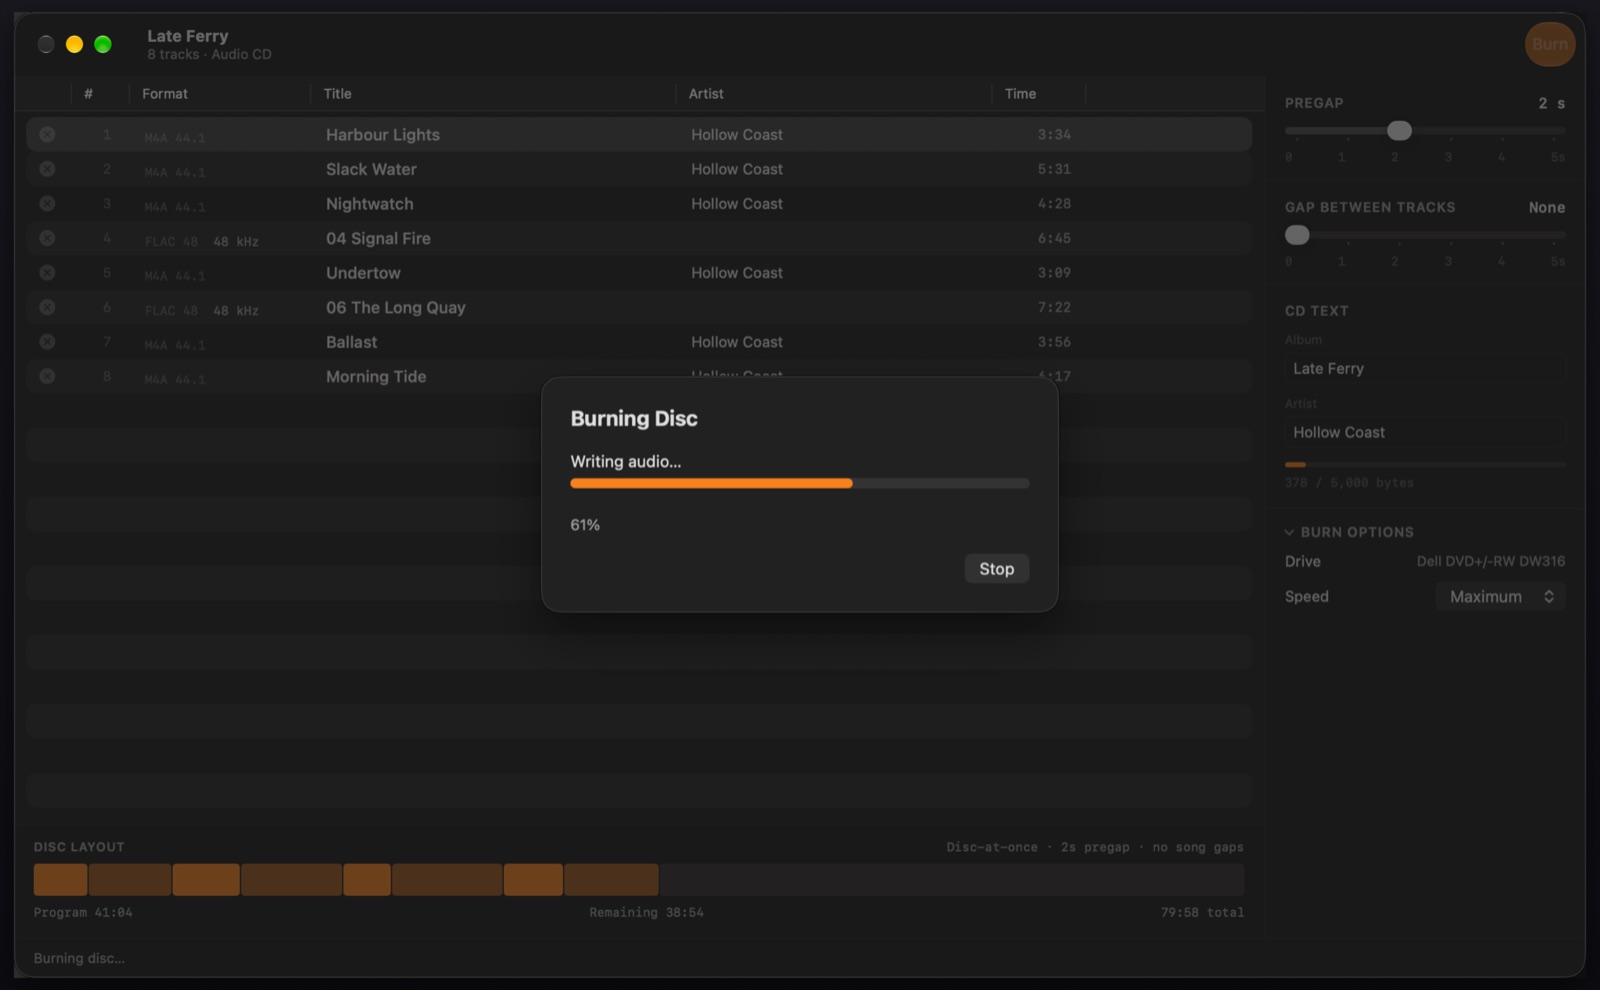
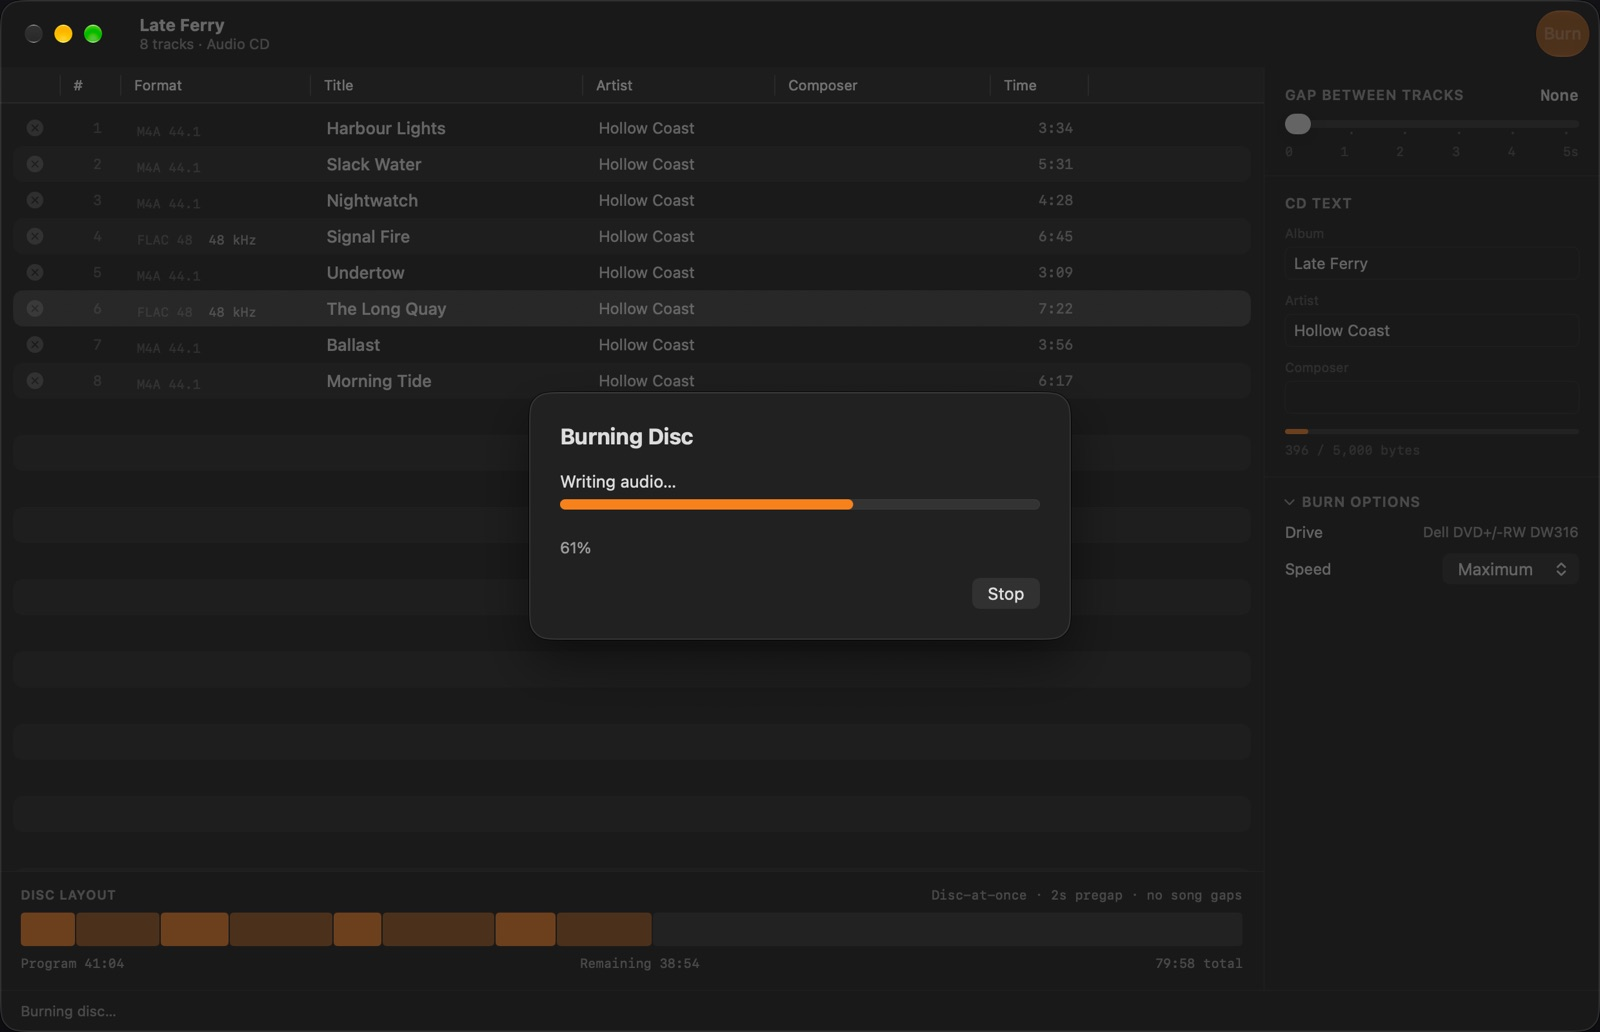
Publish site from pregap ba033e8

diff --git a/gapless-audio-cd-mac.html b/gapless-audio-cd-mac.html
@@ -13,7 +13,7 @@
 <meta property="og:description" content="Burn mixes, live albums and continuous records to audio CD on a Mac with no silence between tracks: disc-at-once, zero pregaps, and the right source files.">
 <meta property="og:image" content="https://pregap.app/img/rename.jpg">
 <meta property="og:image:width" content="1600">
-<meta property="og:image:height" content="990">
+<meta property="og:image:height" content="1032">
 <meta name="twitter:card" content="summary_large_image">
 <link rel="icon" href="favicon.png">
 <link rel="apple-touch-icon" href="apple-touch-icon.png">
@@ -73,14 +73,13 @@ Nearly every USB burner made in the last twenty years can write disc-at-once.</p
     <li><strong>Burn.</strong> Preflight checks the drive, the disc and every file before
         anything is written.</li>
 </ol>
-<p class="meta">The <strong>Pregap</strong> slider is the run-up before track 1, two seconds
-by default as the standard expects. It comes before the music starts, so you never
-hear it as a gap.</p>
+<p class="meta">Pregap always puts the standard two seconds before track 1. They come
+before the music starts, so you never hear them as a gap.</p>
 
 <figure class="guide-shot narrow">
-    <img src="img/guide-gaps.jpg" width="516" height="335" loading="lazy"
-         alt="Pregap's gap controls: the Pregap slider at 2 seconds, and the Gap Between Tracks slider at None.">
-    <figcaption><strong>Pregap</strong> sets the run-up before track 1. <strong>Gap Between Tracks</strong> at None means no silence between any tracks.</figcaption>
+    <img src="img/guide-gaps.jpg" width="516" height="168" loading="lazy"
+         alt="The Gap Between Tracks slider, set to None.">
+    <figcaption><strong>Gap Between Tracks</strong> at None means no silence between any tracks.</figcaption>
 </figure>
 
 <figure class="guide-shot">

diff --git a/index.html b/index.html
@@ -13,7 +13,7 @@
 <meta property="og:description" content="The audio CD burner your Mac should have shipped with. Gapless disc-at-once burns and CD-Text for CDJs, car stereos and hi-fi.">
 <meta property="og:image" content="https://pregap.app/img/rename.jpg">
 <meta property="og:image:width" content="1600">
-<meta property="og:image:height" content="990">
+<meta property="og:image:height" content="1032">
 <meta name="twitter:card" content="summary_large_image">
 <link rel="icon" href="favicon.png">
 <link rel="apple-touch-icon" href="apple-touch-icon.png">
@@ -41,8 +41,8 @@
 </section>
 
 <figure class="shot">
-    <img src="img/rename.jpg" width="1600" height="990"
-         alt="Pregap's window with an eight-track album. Track 4's title is being renamed in place, from “04 Signal Fire” to “Signal Fire”; alongside are the pregap and gap controls, CD-Text, and the disc layout bar.">
+    <img src="img/rename.jpg" width="1600" height="1032"
+         alt="Pregap's window with an eight-track album. Track 4's title is being renamed in place, from “04 Signal Fire” to “Signal Fire”; alongside are the gap control, CD-Text, and the disc layout bar.">
 </figure>
 
 <section class="points">
@@ -64,7 +64,7 @@
 </section>
 
 <figure class="shot">
-    <img src="img/burning.jpg" width="1600" height="990" loading="lazy"
+    <img src="img/burning.jpg" width="1600" height="1032" loading="lazy"
          alt="Pregap burning the album: a progress sheet reading Writing audio, 61%.">
 </figure>
 

diff --git a/gaps-between-tracks.html b/gaps-between-tracks.html
@@ -13,7 +13,7 @@
 <meta property="og:description" content="Burned an album or mix to CD and heard silence between tracks? The four usual causes, from track-at-once burning to encoder padding, and how to fix each one.">
 <meta property="og:image" content="https://pregap.app/img/rename.jpg">
 <meta property="og:image:width" content="1600">
-<meta property="og:image:height" content="990">
+<meta property="og:image:height" content="1032">
 <meta name="twitter:card" content="summary_large_image">
 <link rel="icon" href="favicon.png">
 <link rel="apple-touch-icon" href="apple-touch-icon.png">
@@ -68,9 +68,9 @@ the software says it burns disc-at-once.</p>
 that is the <strong>Gap Between Tracks</strong> slider, which starts at None.</p>
 
 <figure class="guide-shot narrow">
-    <img src="img/guide-gaps.jpg" width="516" height="335" loading="lazy"
-         alt="Pregap's gap controls: the Pregap slider at 2 seconds, and the Gap Between Tracks slider at None.">
-    <figcaption><strong>Pregap</strong> sets the run-up before track 1. <strong>Gap Between Tracks</strong> at None means no silence between any tracks.</figcaption>
+    <img src="img/guide-gaps.jpg" width="516" height="168" loading="lazy"
+         alt="The Gap Between Tracks slider, set to None.">
+    <figcaption><strong>Gap Between Tracks</strong> at None means no silence between any tracks.</figcaption>
 </figure>
 
 

diff --git a/cds-for-cdjs.html b/cds-for-cdjs.html
@@ -13,7 +13,7 @@
 <meta property="og:description" content="How to burn audio CDs that load, cue and read reliably on Pioneer CDJs and other DJ CD players: media, burn speed, track markers, CD-Text and length limits.">
 <meta property="og:image" content="https://pregap.app/img/rename.jpg">
 <meta property="og:image:width" content="1600">
-<meta property="og:image:height" content="990">
+<meta property="og:image:height" content="1032">
 <meta name="twitter:card" content="summary_large_image">
 <link rel="icon" href="favicon.png">
 <link rel="apple-touch-icon" href="apple-touch-icon.png">

diff --git a/guides.html b/guides.html
@@ -13,7 +13,7 @@
 <meta property="og:description" content="Guides to burning audio CDs on the Mac: gapless discs, CDs for CDJs, and why tracks end up with gaps between them.">
 <meta property="og:image" content="https://pregap.app/img/rename.jpg">
 <meta property="og:image:width" content="1600">
-<meta property="og:image:height" content="990">
+<meta property="og:image:height" content="1032">
 <meta name="twitter:card" content="summary_large_image">
 <link rel="icon" href="favicon.png">
 <link rel="apple-touch-icon" href="apple-touch-icon.png">

diff --git a/help.html b/help.html
@@ -13,7 +13,7 @@
 <meta property="og:description" content="Help and support for Pregap, the audio CD burner for the Mac.">
 <meta property="og:image" content="https://pregap.app/img/rename.jpg">
 <meta property="og:image:width" content="1600">
-<meta property="og:image:height" content="990">
+<meta property="og:image:height" content="1032">
 <meta name="twitter:card" content="summary_large_image">
 <link rel="icon" href="favicon.png">
 <link rel="apple-touch-icon" href="apple-touch-icon.png">

diff --git a/privacy.html b/privacy.html
@@ -13,7 +13,7 @@
 <meta property="og:description" content="Pregap collects no data and has no network access.">
 <meta property="og:image" content="https://pregap.app/img/rename.jpg">
 <meta property="og:image:width" content="1600">
-<meta property="og:image:height" content="990">
+<meta property="og:image:height" content="1032">
 <meta name="twitter:card" content="summary_large_image">
 <link rel="icon" href="favicon.png">
 <link rel="apple-touch-icon" href="apple-touch-icon.png">
